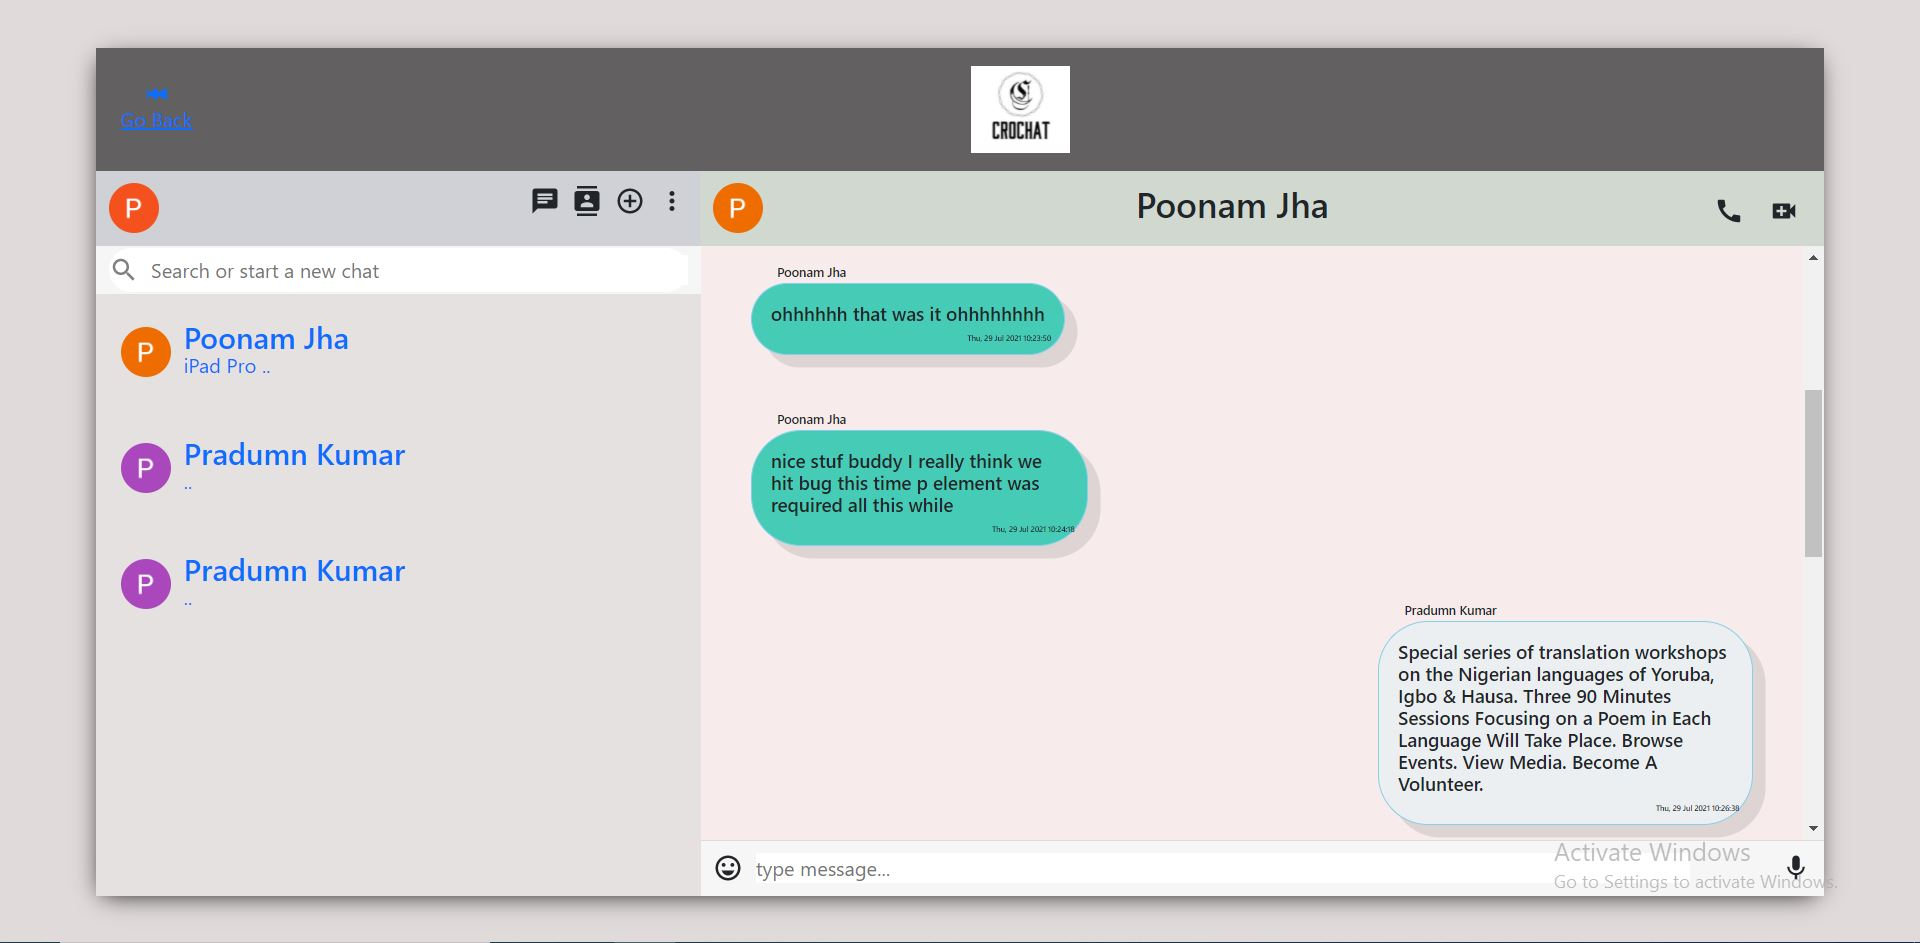
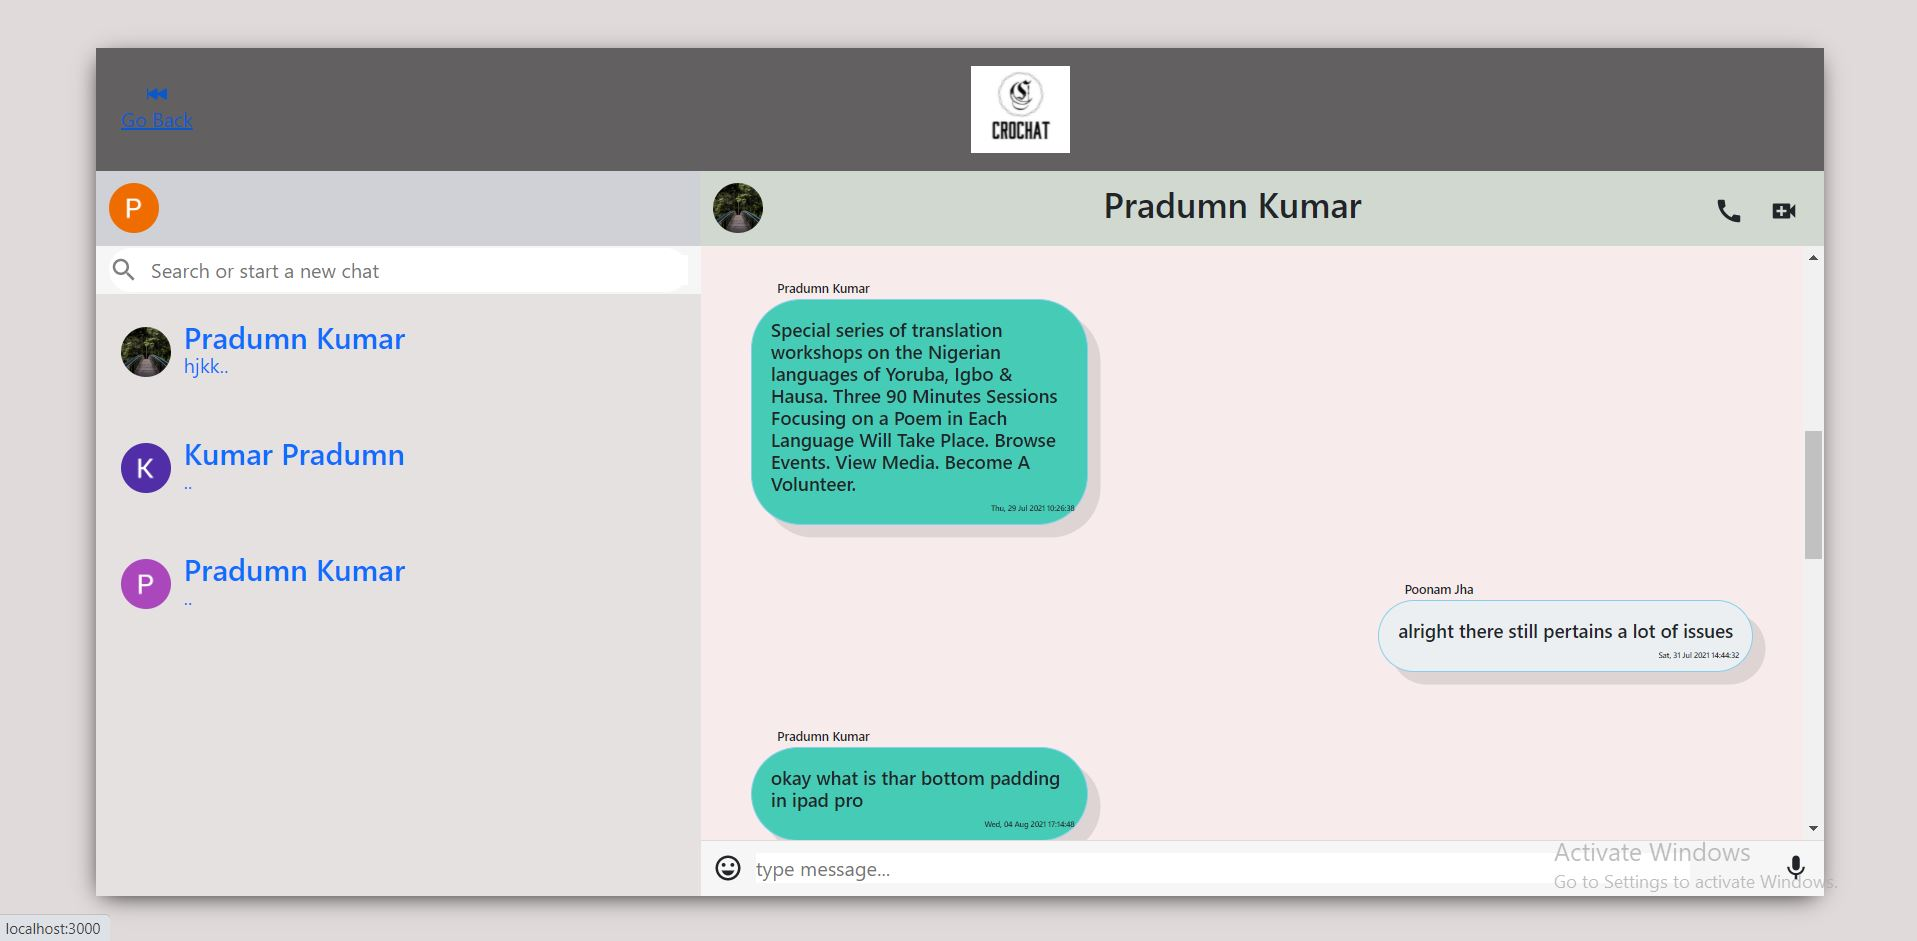
photo change feature added

diff --git a/Client/src/components/ProfilePage/Profile.js b/Client/src/components/ProfilePage/Profile.js
@@ -5,15 +5,18 @@ import MenuNav from '../MainMenu/MenuNav'
 import "./Profile.css"
 import { useStateValue } from "../../StateReducer/StateProvider"
 import db from "../../Firebase"
+import ProgressBar from "./ProgressBar"
 
 function Profile() {
     const [{ user, id },] = useStateValue();
     const [dis, setDis] = useState(false);
-    const [name, setName] = useState(user.displayName);
+    const [name, setName] = useState();
     const [hov, setHov] = useState(false);
     const [hove, setHove] = useState(false);
     const [photo, setPhoto] = useState(user.photoURL);
     const [chats, setChats] = useState({});
+    const [file, setFile] = useState();
+    const [error, setError] = useState();
     useEffect(() => {
         db.collection("users").doc(id).collection("chats").onSnapshot((snapshot) =>
             setChats(
@@ -23,23 +26,25 @@ function Profile() {
                 }))
             )
         )
+        db.collection("users").doc(id).get().then((doc) => {
+            if (doc.exists) {
+                setName(doc.data().name);
+                setPhoto(doc.data().photoUrl);
+            }
+        })
         setTimeout(() => {
             setDis(true);
         }, 2200);
 
-
     }, []);
-    useEffect(() => {
-        setPhoto(user.photoURL);
-    }, [user.photoURL])
     const changeName = (e) => {
         e.preventDefault();
         db.collection('users').doc(id).update({
             name: name,
         })
-        chats.map((chat)=>{
+        chats.map((chat) => {
             db.collection("users").doc(chat.data.friend).collection("chats").doc(chat.data.friendRoomId).update({
-                name:name,
+                name: name,
             })
         })
     }
@@ -48,6 +53,19 @@ function Profile() {
         navigator.clipboard.writeText(id);
         // For Older Browser Versions
         // window.clipboardData.setData("Text", 123455);
+    }
+
+    const types = ['image/png', 'image/jpeg'];
+
+    const onImageChange = (e) => {
+        let selected = e.target.files[0];
+        if (selected && types.includes(selected.type)) {
+            setFile(selected);
+            setError('');
+        } else {
+            setFile(null);
+            setError('Please select an image file (png or jpg)');
+        }
     }
 
     return (
@@ -64,7 +82,14 @@ function Profile() {
                                         <h4>Display Picture : </h4>
                                         <div className="dp-in">
                                             <Avatar src={photo} style={{ height: "60px", width: "60px" }} />
-                                            {/* <input type="file" className="change" onChange={onImageChange}></input> */}
+                                            <label>
+                                            <input type="file" className="change" onChange={(e) => onImageChange(e)}></input>
+                                            <span>Change Display Pic</span>
+                                            <div className="output">
+                                                {error && <div className="error">{error}</div>}
+                                                {file && <ProgressBar setPhoto={setPhoto} friends={chats} id={id} file={file} setFile={setFile} />}
+                                            </div>
+                                            </label>
                                         </div>
                                     </div>
                                     <div className="dn">

diff --git a/Client/src/components/ProfilePage/ProgressBar.js b/Client/src/components/ProfilePage/ProgressBar.js
@@ -1,0 +1,33 @@
+import React, { useEffect } from 'react';
+import useStorage from '../../StorageHook/useStorage';
+import { motion } from 'framer-motion';
+import db from "../../Firebase";
+import "./Profile.css"
+
+const ProgressBar = ({ file, setFile,setPhoto,friends,id}) => {
+  const { progress, url } = useStorage(file);
+
+  useEffect(() => {
+    if (url) {
+        db.collection("users").doc(id).update({
+            photoUrl:url,
+        })
+        friends.map((friend) => {
+            db.collection("users").doc(friend.data.friend).collection("chats").doc(friend.data.friendRoomId).update({
+                photo: url,
+            })
+        })
+        setPhoto(url);
+      setFile(null);
+    }
+  }, [url, setFile]);
+
+  return (
+    <motion.div className="progress-bar"
+      initial={{ width: 0 }}
+      animate={{ width: progress + '%' }}
+    ></motion.div>
+  );
+} 
+
+export default ProgressBar;

diff --git a/Client/src/StorageHook/useStorage.js b/Client/src/StorageHook/useStorage.js
@@ -1,0 +1,26 @@
+import { useState, useEffect } from 'react';
+import { storage } from '../Firebase';
+
+const useStorage = (file) => {
+  const [progress, setProgress] = useState(0);
+  const [error, setError] = useState(null);
+  const [url, setUrl] = useState(null);
+
+  useEffect(() => {
+    const storageRef = storage.ref(file.name);
+    
+    storageRef.put(file).on('state_changed', (snap) => {
+      let percentage = (snap.bytesTransferred / snap.totalBytes) * 100;
+      setProgress(percentage);
+    }, (err) => {
+      setError(err);
+    }, async () => {
+      const url = await storageRef.getDownloadURL();
+      setUrl(url);
+    });
+  }, [file]);
+
+  return { progress, url, error };
+}
+
+export default useStorage;

diff --git a/Client/src/components/ProfilePage/Profile.css b/Client/src/components/ProfilePage/Profile.css
@@ -149,6 +149,40 @@
   display: none;
 }
 
+label input{
+  height: 0;
+  width: 0;
+  opacity: 0;
+}
+
+label{
+  display: block;
+  width: 116px;
+  height: 20px;
+  margin:5px;
+  color: #9b9bb7;
+  font-weight: bold;
+}
+
+label>span{
+  cursor: pointer;
+  font-size: 10px;
+}
+label>span:hover{
+  border-bottom: 1px solid wheat;
+}
+
+.progress-bar{
+  height: 5px;
+  background: #9b9bb7;
+  margin-top: 20px;
+}
+
+.output{
+  height: 60px;
+  font-size: 0.8rem;
+}
+
 @keyframes typewriter {
   0% {
     width: 0;

diff --git a/Client/src/Firebase.js b/Client/src/Firebase.js
@@ -1,10 +1,12 @@
 import firebase from "firebase";
 import firebaseConfig from "./config";
+import "firebase/storage";
 
 const firebaseApp = firebase.initializeApp(firebaseConfig);
 const db = firebaseApp.firestore();
 const auth = firebaseApp.auth();
 const provider = new firebase.auth.GoogleAuthProvider();
+const storage = firebase.storage();
 
-export { auth, provider };
+export { auth, provider, storage };
 export default db;

diff --git a/Client/src/components/ChatPage/ChatComp/SideChat.js b/Client/src/components/ChatPage/ChatComp/SideChat.js
@@ -23,6 +23,7 @@ export default function SideChat({ roomId, friendId, name, photo, friendRoomId }
                 friendId: friendId,
                 friendRoomId: friendRoomId,
                 roomId: roomId,
+                photo:photo,
             }
         }} >
             <div className="sidechat">
